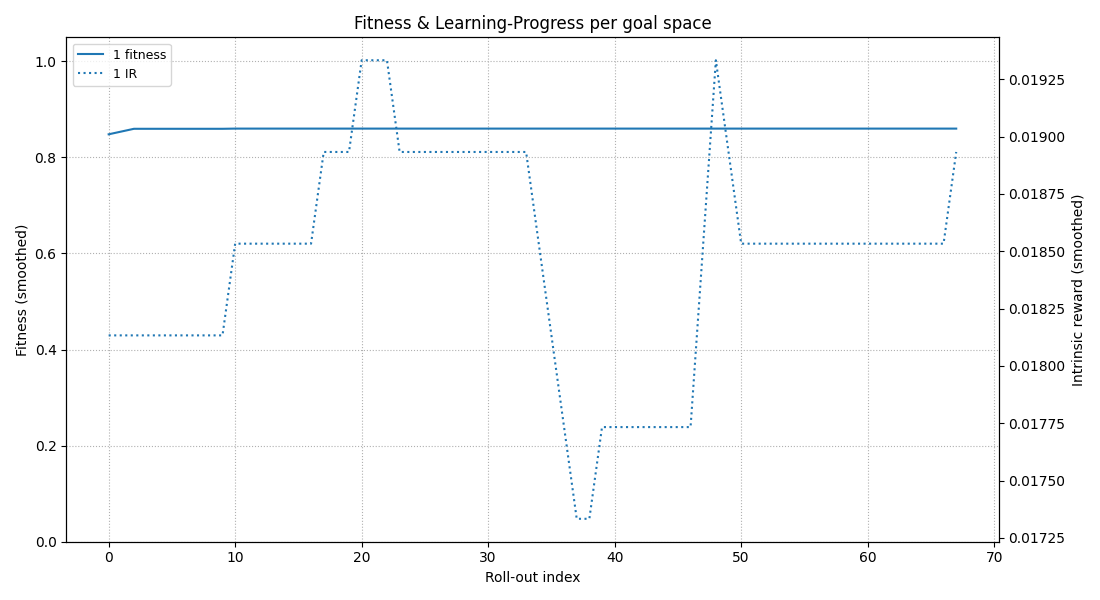
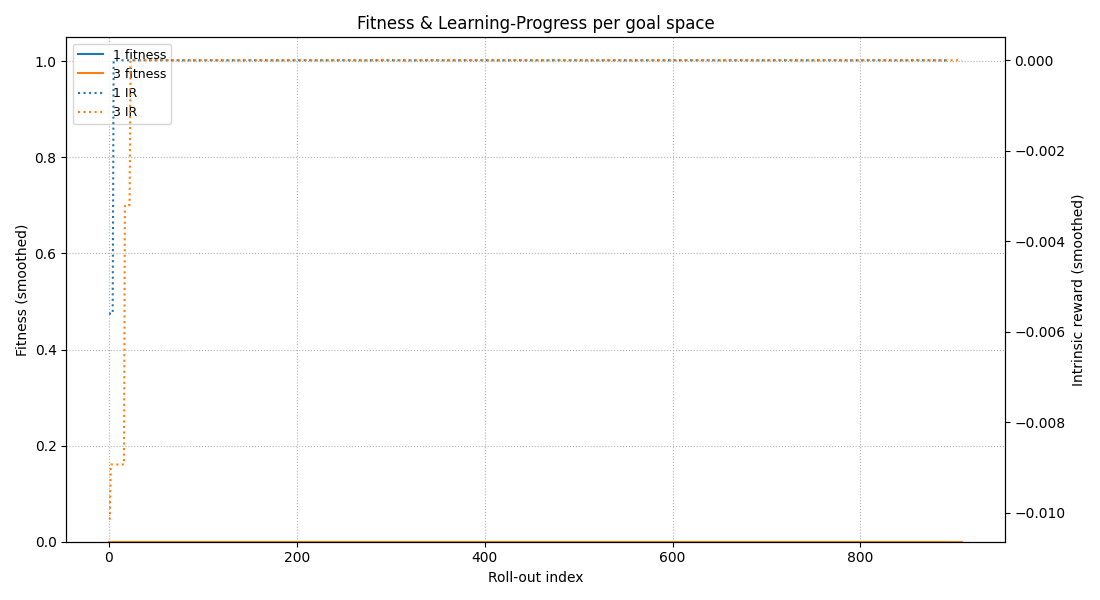
Refactor agent and neuro_policy classes, enhance policy mutation, and adjust roll-out parameters

diff --git a/imrl_agent_new/overcooked/agent.py b/imrl_agent_new/overcooked/agent.py
@@ -9,8 +9,7 @@ import numpy as np
 from imrl_agent_new.core.goal_policy import GoalSpacePolicy
 from imrl_agent_new.core.goal_spaces import GoalSpace, create_goal_space
 from imrl_agent_new.core.knowledge_base import ExperimentRecord, KnowledgeBase
-from imrl_agent_new.core.neuro_policy import NeuroPolicy
-from imrl_agent_new.core.population_explorer import PopulationExplorer
+from imrl_agent_new.core.neuro_policy import NeuroPolicy, mutate_neuro_policy
 from imrl_agent_new.helper.choose_goal import get_plan
 from imrl_agent_new.helper.high_level_actions import HighLevelActions
 from imrl_agent_new.helper.obs_to_vect import obs_to_vec
@@ -19,7 +18,7 @@ from overcooked_ai_py.agents.agent import Agent
 from overcooked_ai_py.mdp.actions import Action
 from overcooked_ai_py.mdp.overcooked_env import OvercookedEnv
 from overcooked_ai_py.mdp.overcooked_mdp import OvercookedGridworld, OvercookedState
-from overcooked_ai_py.planning.planners import MotionPlanner
+from overcooked_ai_py.planning.planners import MediumLevelActionManager, MotionPlanner
 
 
 # --------------------------------------------------------------------------- #
@@ -44,19 +43,16 @@ class IMGEPAgent(Agent):
         self.horizon = horizon
         self.mp: MotionPlanner = env.mp
         self.max_dist = max_dist
-        self.mlam = env.mlam
+        self.mlam: MediumLevelActionManager = env.mlam
         # ---------- IMGEP machinery --------------------------------------
         self.G = create_goal_space(env, horizon)
         self.bandit = GoalSpacePolicy(self.G, epsilon=epsilon)
 
         self.kb = KnowledgeBase(context_dim=1, outcome_dim=5)
-        self.obs_dim = 14  # from obs_to_vec()
-        self.explorer = PopulationExplorer(self.kb, NeuroPolicy,
-                                           self.obs_dim)
         # ---------- per-rollout fields -----------------------------------
         self.goal_space_id: str | None = None
         self.goal_vec: np.ndarray | None = None
-        self.theta: NeuroPolicy | None = None
+        self.neuro_policy: NeuroPolicy | None = None
         self.use_pi: bool = False
         self.t: int = 0
         self.meta: Dict[str, Any] = {}
@@ -76,8 +72,7 @@ class IMGEPAgent(Agent):
         self.t = 0
         self.meta = {"reach_step": None, "pick_step": None, "fill_step": None, "bad_token": 0}
         self.path = []
-        # 20 % exploitation, 80 % exploration
-        self.use_pi = (random.random() > 0.8) and (len(self.kb) > 0)
+
         # Get all policies from the knowledge base with goal space ID self.goal_space_id and goal_vec self.goal_vec
         neuro_policies = []
         for policy in self.kb.buffer:  # limit to the last 50 policies
@@ -86,21 +81,28 @@ class IMGEPAgent(Agent):
             if len(neuro_policies) >= 50:
                 break
 
-        if self.use_pi and neuro_policies:  # --- exploit: clone best policy ----
-            best_idx = np.argmax([r.fitness for r in neuro_policies])
+        best_idx = np.argmax([r.fitness for r in neuro_policies]) if neuro_policies else 0
+        self.use_pi = (random.random() > 0.8)
+        if not neuro_policies:
+            # --- explore: create new policy --
+            self.neuro_policy = NeuroPolicy()
+        elif self.use_pi and neuro_policies:
+            # --- exploit: clone best policy ----
             theta_vec = self.kb.buffer[best_idx].theta
-            self.theta = NeuroPolicy(obs_dim=self.obs_dim,
-                                     theta=theta_vec)
-        else:  # --- explore: new / mutated policy --
-            self.theta = self.explorer.sample_or_mutate(neuro_policies)
+            self.neuro_policy = NeuroPolicy(theta=theta_vec)
+        else:
+            # --- explore:  mutate policy --
+            self.neuro_policy = mutate_neuro_policy(neuro_policies)
 
     # ---------------------------------------------------------------- action
     def action(self, state: OvercookedState):
-        # optional success time-step logging
-        if self.goal_reach_time_step is not None:
-            return Action.STAY, {}
-
         self.t += 1
+        if self.goal_reach_time_step is not None:
+            legal_actions = list(Action.MOTION_ACTIONS)
+            # Pick a random action from the legal actions
+            random_action = random.choice(legal_actions)
+            return random_action, {}
+
         gs = self.G[self.goal_space_id]
         if gs.success(state.players[self.agent_id], self.goal_vec) and self.goal_reach_time_step is None:
             self.goal_reach_time_step = self.t
@@ -114,7 +116,7 @@ class IMGEPAgent(Agent):
                              self.agent_id, self.max_dist)
 
         token = HighLevelActions(
-            self.theta.select_token(obs_vec, greedy=True))
+            self.neuro_policy.select_token(obs_vec, greedy=self.use_pi))
 
         # ----------------- path planning ----------------------------------
         motion_goals = self._get_motion_goals(token, state)
@@ -149,7 +151,7 @@ class IMGEPAgent(Agent):
             context=np.array([0]),
             goal=self.goal_vec,
             goal_space=self.goal_space_id,
-            theta=self.theta.theta,  # store network parameters
+            theta=self.neuro_policy.theta,  # store network parameters
             outcome=outcome,
             fitness=fitness,
             intrinsic_reward=r_i,

diff --git a/imrl_agent_new/core/neuro_policy.py b/imrl_agent_new/core/neuro_policy.py
@@ -10,24 +10,18 @@ def he_init(fan_in: int, fan_out: int) -> np.ndarray:
 
 
 class NeuroPolicy:
-    def __init__(self,
-                 obs_dim: int,
-                 num_tokens: int = 9,
-                 hidden_dim: int = 64,
-                 sigma_mut: float = 0.025,
-                 theta: np.ndarray | None = None):
+    def __init__(self, theta: np.ndarray | None = None):
 
-        self.obs_dim = obs_dim
-        self.inp_dim = obs_dim
-        self.hidden_dim = hidden_dim
-        self.num_tokens = num_tokens
-        self.sigma_mut = sigma_mut
+        self.inp_dim = 14  # from obs_to_vec()
+        self.hidden_dim = 64
+        self.num_tokens = 9
+        self.sigma_mut = 0.025
 
         if theta is None:  # fresh initialization
-            W1 = he_init(self.inp_dim, hidden_dim)
-            b1 = np.zeros(hidden_dim, dtype=np.float32)
-            W2 = he_init(hidden_dim, num_tokens)
-            b2 = np.zeros(num_tokens, dtype=np.float32)
+            W1 = he_init(self.inp_dim, self.hidden_dim)
+            b1 = np.zeros(self.hidden_dim, dtype=np.float32)
+            W2 = he_init(self.hidden_dim, self.num_tokens)
+            b2 = np.zeros(self.num_tokens, dtype=np.float32)
             self.theta = self._pack(W1, b1, W2, b2)
         else:  # copy provided weights
             self.theta = theta.astype(np.float32)
@@ -67,3 +61,13 @@ class NeuroPolicy:
         i += H * A
         b2 = self.theta[i:i + A]
         return W1, b1, W2, b2
+
+
+def mutate_neuro_policy(neuro_policies: list[NeuroPolicy]) -> NeuroPolicy:
+    """Mutate policy weights in-place."""
+
+    # 1) Get the previous policy θ
+    parent_theta = neuro_policies[-1].theta.copy()
+
+    child_theta = parent_theta + np.random.normal(0, 0.05, parent_theta.shape)
+    return NeuroPolicy(child_theta)

diff --git a/imrl_agent_new/demo_eval.py b/imrl_agent_new/demo_eval.py
@@ -32,11 +32,11 @@ base_params = {
 }
 
 agents = [IMGEPAgent(env, mdp, agent_id, horizon=HORIZON, max_dist=max_dist) for agent_id in range(2)]
-# for ag in agents: ag.kb.load_buffer("kb/buffer_rollouts" + str(ag.agent_id) + ".pkl")
+for ag in agents: ag.kb.load_buffer("kb/buffer_rollouts" + str(ag.agent_id) + ".pkl")
 # ---------------------------------------------------------------- run one roll-out
 state = env.reset()
 
-ROLL_OUTS = 1000
+ROLL_OUTS = 5000
 scores, dishes, fitnesses, r_is = [], [], [], []
 
 stats_log = []

diff --git a/imrl_agent_new/overcooked/outcome.py b/imrl_agent_new/overcooked/outcome.py
@@ -1,13 +1,10 @@
 # outcome.py
-import string
 
+# outcome.py
 import numpy as np
 
 from overcooked_ai_py.mdp.overcooked_mdp import ObjectState, OvercookedGridworld, OvercookedState, PlayerState
 
-
-# outcome.py
-import numpy as np
 
 def extract_outcome(
     state: OvercookedState,
@@ -41,7 +38,7 @@ class ItemCode(IntEnum):
     NOTHING   = 0
     ONION     = 1
     TOMATO    = 2
-    BOWL      = 3
+    DISH = 3
     SOUP      = 4
 
 # ---------- helpers ----------------------------------------------------------

diff --git a/imrl_agent_new/visualise/stats/visualise.py b/imrl_agent_new/visualise/stats/visualise.py
@@ -101,7 +101,7 @@ def plot_competence(records, output_path):
     colors = plt.cm.tab10.colors  # up to 10 distinct colours
 
     for idx, goal_space in enumerate(competence_by_space):
-        comp_vals = moving_average(competence_by_space[goal_space], 20)
+        comp_vals = moving_average(competence_by_space[goal_space], 1)
         x = range(len(comp_vals))
         ax.plot(x, comp_vals, color=colors[idx % 10], label=f"{goal_space} competence")
 

diff --git a/imrl_agent_new/helper/high_level_actions.py b/imrl_agent_new/helper/high_level_actions.py
@@ -2,5 +2,5 @@ from enum import IntEnum
 
 
 class HighLevelActions(IntEnum):
-    GO_ONION, GO_TOMATO, GO_DISH, PUT_ONION, PUT_TOMATO, GO_READY_POT, GO_SERVE, GO_COUNTER, START_COOKING, WAIT = range(
-        10)
+    GO_ONION, GO_TOMATO, GO_DISH, PUT_ONION, PUT_TOMATO, GO_READY_POT, GO_SERVE, GO_COUNTER, START_COOKING = range(
+        9)

diff --git a/imrl_agent_new/core/goal_spaces.py b/imrl_agent_new/core/goal_spaces.py
@@ -41,7 +41,7 @@ class GoalSpace:
 PICKABLE_OBJECTS = [
     ItemCode.ONION,
     # ItemCode.TOMATO,
-    # ItemCode.BOWL,
+    ItemCode.DISH,
     # ItemCode.SOUP TODO define if we want to add this back, it is a stepping stone
 ]
 
